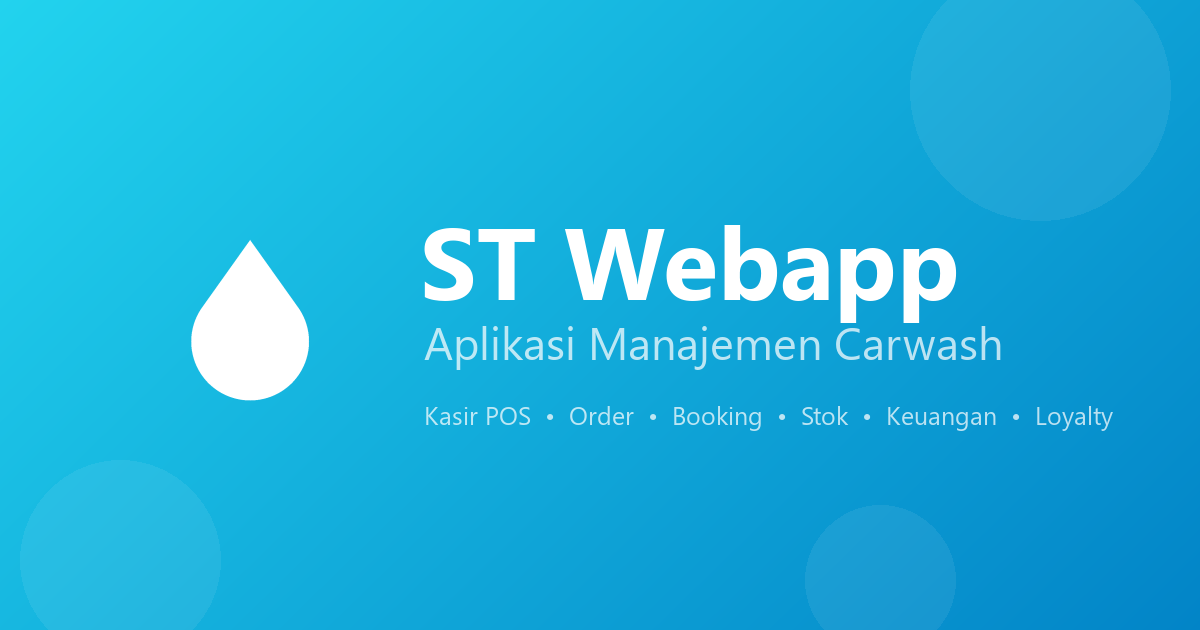
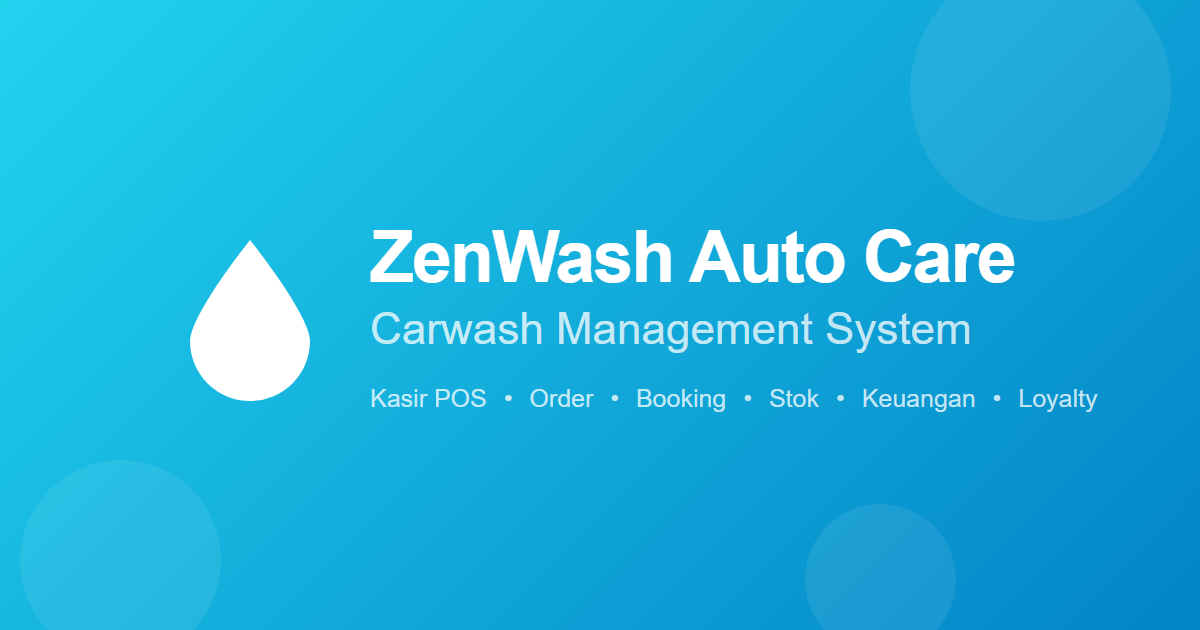
`feat: update OG image with ZenWash branding`

Changed region(s): [[0.3083, 0.3619, 0.8633, 0.573], [0.3083, 0.6032, 0.925, 0.6937]]

diff --git a/public/og-image.html b/public/og-image.html
@@ -1,0 +1,127 @@
+<!doctype html>
+<html lang="en">
+    <head>
+        <meta charset="UTF-8" />
+        <meta name="viewport" content="width=1200, initial-scale=1" />
+        <title>ZenWash Auto Care — Open Graph Image</title>
+        <style>
+            * {
+                box-sizing: border-box;
+            }
+
+            html,
+            body {
+                width: 1200px;
+                height: 630px;
+                margin: 0;
+                overflow: hidden;
+            }
+
+            body {
+                font-family: Arial, Helvetica, sans-serif;
+                background: linear-gradient(135deg, #22d3ee 0%, #0284c7 100%);
+            }
+
+            .canvas {
+                position: relative;
+                width: 1200px;
+                height: 630px;
+                overflow: hidden;
+            }
+
+            .circle {
+                position: absolute;
+                border-radius: 9999px;
+                background: rgba(255, 255, 255, 0.08);
+            }
+
+            .circle-top {
+                top: -40px;
+                right: 29px;
+                width: 261px;
+                height: 261px;
+            }
+
+            .circle-left {
+                bottom: -31px;
+                left: 20px;
+                width: 201px;
+                height: 201px;
+            }
+
+            .circle-bottom {
+                right: 244px;
+                bottom: -25px;
+                width: 151px;
+                height: 151px;
+            }
+
+            .droplet {
+                position: absolute;
+                top: 240px;
+                left: 190px;
+                width: 120px;
+                height: 162px;
+                fill: #ffffff;
+            }
+
+            .copy {
+                position: absolute;
+                top: 216px;
+                left: 370px;
+                white-space: nowrap;
+            }
+
+            h1 {
+                margin: 0;
+                color: #ffffff;
+                font-size: 72px;
+                font-weight: 700;
+                line-height: 1.15;
+                letter-spacing: -2px;
+            }
+
+            .subtitle {
+                margin: 4px 0 0;
+                color: rgba(255, 255, 255, 0.75);
+                font-size: 44px;
+                font-weight: 400;
+                line-height: 1.2;
+            }
+
+            .features {
+                margin: 30px 0 0;
+                color: rgba(255, 255, 255, 0.75);
+                font-size: 25px;
+                font-weight: 400;
+                line-height: 1;
+            }
+
+            .separator {
+                display: inline-block;
+                padding: 0 10px;
+            }
+        </style>
+    </head>
+    <body>
+        <main class="canvas" aria-label="ZenWash Auto Care social sharing image">
+            <div class="circle circle-top"></div>
+            <div class="circle circle-left"></div>
+            <div class="circle circle-bottom"></div>
+
+            <svg class="droplet" viewBox="0 0 120 162" aria-hidden="true">
+                <path d="M60 0C60 0 0 75 0 101a60 60 0 0 0 120 0C120 75 60 0 60 0Z" />
+            </svg>
+
+            <section class="copy">
+                <h1>ZenWash Auto Care</h1>
+                <p class="subtitle">Carwash Management System</p>
+                <p class="features">
+                    Kasir POS <span class="separator">•</span> Order <span class="separator">•</span> Booking
+                    <span class="separator">•</span> Stok <span class="separator">•</span> Keuangan
+                    <span class="separator">•</span> Loyalty
+                </p>
+            </section>
+        </main>
+    </body>
+</html>
